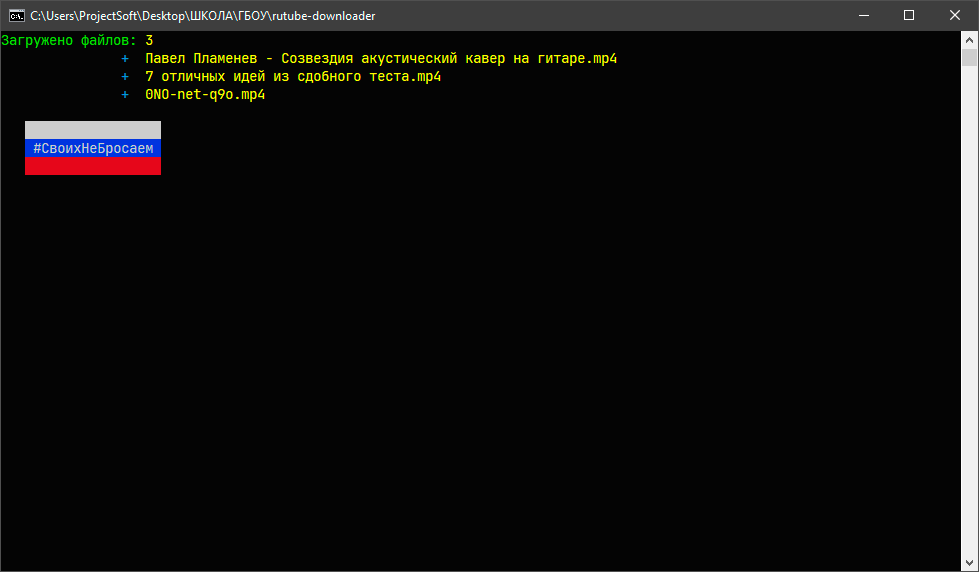
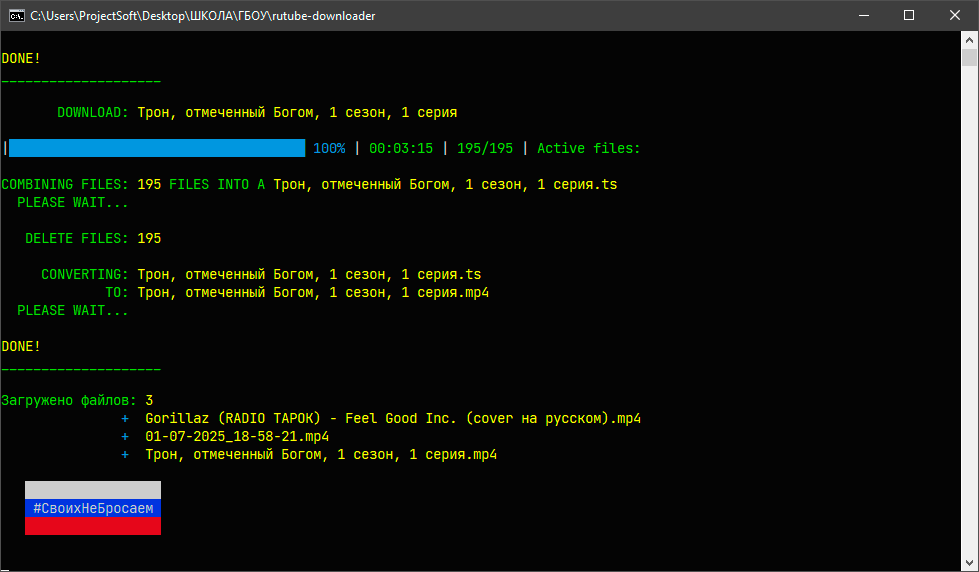
update

diff --git a/src/parseArgs.js b/src/parseArgs.js
@@ -1,5 +1,6 @@
 const path = require("node:path");
 const { selectVideoProvider } = require("./videoProviders");
+const _colors = require("ansi-colors");
 
 exports.parseArgs = args => {
 	const root = path.dirname(args[1]);
@@ -35,34 +36,36 @@ exports.parseArgs = args => {
 
 const help = [
 	" ",
-	"Использовать: node index.js url1 [url2] [url3 -t custom_title] [url4] [...] [-p 10] [-q]",
-	" ",
+	"Использовать:",
+	_colors.yellowBright("node index.js url1 [url2] [url3 -t custom_title] [url4] [...] [-p 10] [-q]"),
+	"",
 	"Опции:",
-	" -t <title> \t задать имя файла для предыдущего url",
-	" -p <int> \t количество одновременных загрузок, по умолчанию 5",
-	" -q \t\t скрипт будет спрашивать о том, какого качества видео загружать, по умолчанию выбирает наилучшее",
-	" -h \t\t отобразить справку",
+	" " + _colors.yellowBright("-t <title>") + " \t задать имя файла для предыдущего url",
+	" " + _colors.yellowBright("-p <int>") + " \t количество одновременных загрузок, по умолчанию 5",
+	" " + _colors.yellowBright("-q") + " \t\t скрипт будет спрашивать о том, какого качества видео загружать, по умолчанию выбирает наилучшее",
+	" " + _colors.yellowBright("-h") + " \t\t отобразить справку",
 	" ",
 	"Примеры использования:",
-	"+ загрузить видео с rutube, имя файла будет взято как у видео по ссылке, либо из аргумента",
-	"node index.js https://rutube.ru/video/ba1f267bcff6a3529889a6dd08bfb764/",
-	" ",
-	"+ загрузить видео с vkvideo, имя файла будет взято как у видео по ссылке, либо из аргумента",
-	"node index.js https://vkvideo.ru/video-18255722_456244249",
-	" ",
-	"+ загрузить видео с aser.pro, имя файла будет взято из аргумента",
-	"node index.js https://aser.pro/content/stream/podnyatie_urovnya_v_odinochku/001_29006/hls/index.m3u8 -t 'Поднятие уровня в одиночку серия 01'",
-	" ",
-	"+ загрузить несколько файлов",
-	"node index.js https://rutube.ru/video/ba1f267bcff6a3529889a6dd08bfb764/ -t \"Отмеченный богом\"" +
+	"",
+	" + загрузить видео с rutube, имя файла будет взято как у видео по ссылке, либо из аргумента",
+	_colors.yellowBright("node index.js https://rutube.ru/video/ba1f267bcff6a3529889a6dd08bfb764/"),
+	"",
+	" + загрузить видео с vkvideo, имя файла будет взято как у видео по ссылке, либо из аргумента",
+	_colors.yellowBright("node index.js https://vkvideo.ru/video-18255722_456244249"),
+	"",
+	" + загрузить видео с aser.pro, имя файла будет взято из аргумента",
+	_colors.yellowBright("node index.js https://aser.pro/content/stream/podnyatie_urovnya_v_odinochku/001_29006/hls/index.m3u8 -t \"Поднятие уровня в одиночку серия 01\""),
+	"",
+	" + загрузить несколько файлов",
+	_colors.yellowBright("node index.js https://rutube.ru/video/ba1f267bcff6a3529889a6dd08bfb764/ -t \"Отмеченный богом\"" +
 		" https://aser.pro/content/stream/podnyatie_urovnya_v_odinochku/001_29006/hls/index.m3u8 -t \"Поднятие уровня в одиночку серия 01\"" +
-		" https://vkvideo.ru/video-18255722_456244249 -t \"Скачено с VK\"",
-	" ",
-	"+ либо загрузить несколько файлов без параметров",
-	"node index.js https://rutube.ru/video/ba1f267bcff6a3529889a6dd08bfb764/" +
+		" https://vkvideo.ru/video-18255722_456244249 -t \"Скачено с VK\""),
+	"",
+	" + либо загрузить несколько файлов без параметров",
+	_colors.yellowBright("node index.js https://rutube.ru/video/ba1f267bcff6a3529889a6dd08bfb764/" +
 		" https://aser.pro/content/stream/podnyatie_urovnya_v_odinochku/001_29006/hls/index.m3u8" +
-		" https://vkvideo.ru/video-18255722_456244249",
-	" ",
+		" https://vkvideo.ru/video-18255722_456244249"),
+	"",
 ];
 
 function showHelp() {

diff --git a/index.js b/index.js
@@ -13,7 +13,9 @@ const _colors = require("ansi-colors");
 const { rl } = require("./src/dialogue");
 const { parseArgs } = require("./src/parseArgs");
 
-
+/**
+ * Получаем title процесса
+ */
 const globalTitle = process.title;
 
 async function run() {
@@ -38,12 +40,27 @@ async function run() {
 	}
 	return state;
 }
+/**
+ * Очищаем консоль
+ */
+console.clear();
 
-//console.clear();
+/**
+ * Перехват ошибок
+ */
+process.on('uncaughtException', (err) => {
+	console.log(err);
+});
+
+process.on('unhandledRejection', (reason, promise) => {
+	console.log(_colors.redBright(reason.message));
+});
+/**
+ * Запускаем
+ */
 run()
 	.then(state => {
-		rl.close();
-		console.clear();
+		console.log("\u00A0");
 		console.log(`Загружено файлов:`, _colors.yellowBright(`${state.currentFileIndex}`));
 		for (let file of state.files) console.log(_colors.cyan("+ ".padStart(17, " ")), _colors.yellowBright(file.name));
 	})
@@ -57,4 +74,5 @@ run()
 		console.log("\u00A0\u00A0\u00A0" + _colors.bgBlue(  _colors.white("\u0020\u0023\u0421\u0432\u043e\u0438\u0445\u041d\u0435\u0411\u0440\u043e\u0441\u0430\u0435\u043c\u0020")) + "\u00A0");
 		console.log("\u00A0\u00A0\u00A0" + _colors.bgRed(   _colors.red(  "\u2588\u2588\u2588\u2588\u2588\u2588\u2588\u2588\u2588\u2588\u2588\u2588\u2588\u2588\u2588\u2588\u2588")) + "\u00A0");
 		console.log("\u00A0");
+		rl.close();
 	});

diff --git a/src/uid.js b/src/uid.js
@@ -1,7 +1,7 @@
-const allKeys =
-	"0123456789abcdefghigklmnopqrstuvwxyzABCDEFGHIGKLMNOPQRSTUVWXYZ";
+/**
+ * Возвращает дату вызова функции
+ * В нашем случае время начала работы с данными в момент запроса title для файла
+ */
+const allKeysBuilder = () => new Date().toLocaleString().replace(/\.|:/g, `-`).replace(/,\s+?/g, "_");
 
-const allKeysBuilder = key => () =>
-	key.replace(/\*/g, () => allKeys[(Math.random() * 62) | 0]);
-
-exports.uuid9 = allKeysBuilder("***-***-***");
+exports.uuid9 = allKeysBuilder;
